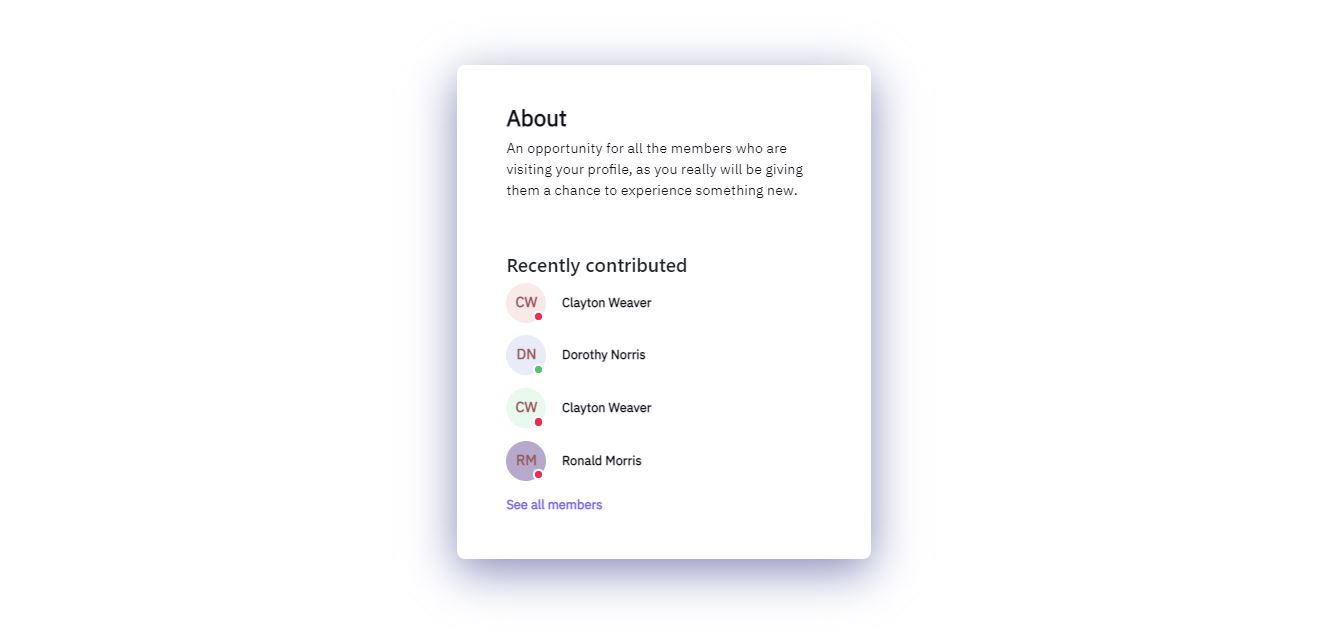
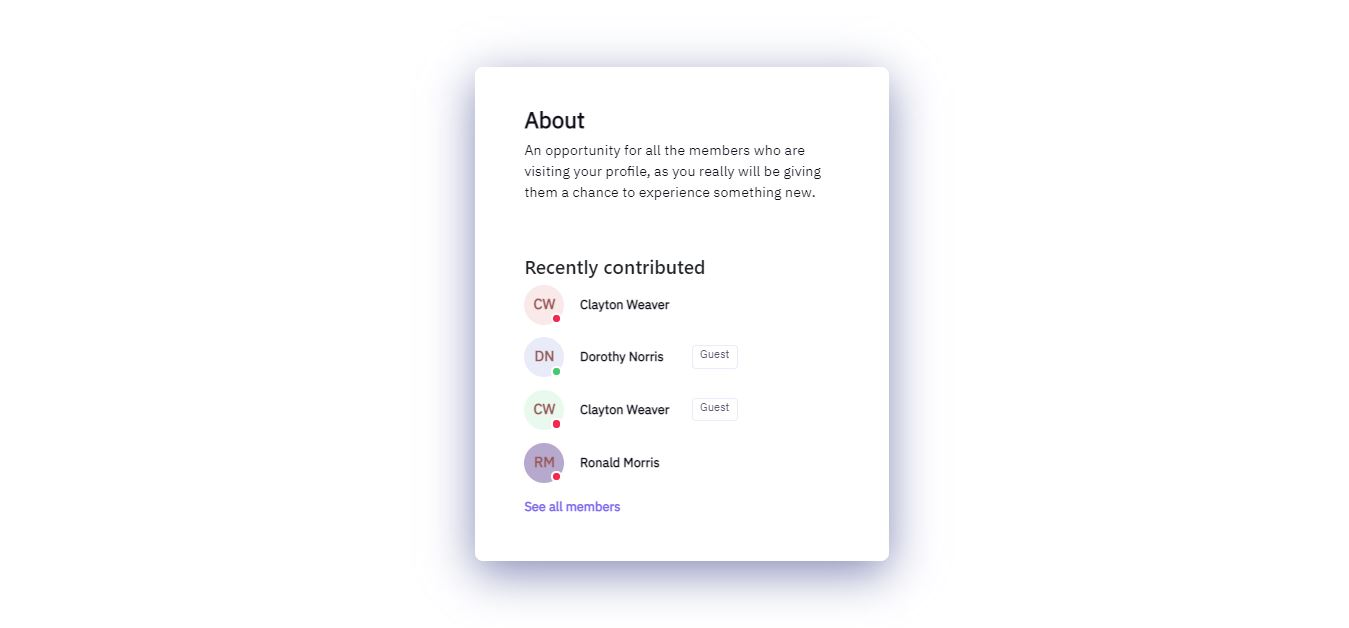
update info card.

diff --git a/info-card/index.html b/info-card/index.html
@@ -43,12 +43,15 @@
                             </div>
                         </div>
                     </div>
-                    <div class="col col-names">
+                    <div class="col-4 col-names">
                         <p class="mid-col-names">Dorothy Norris</p>
+                    </div>
+                    <div class="col">
+                        <label class="guest">Guest</label>
                     </div>
                 </div>
 
-                <div class="row">
+                <div class="row d-flex">
                     <div class="col-2">
                         <div class="third-circle">
                             <p class="first-circle-text">CW</p>
@@ -56,8 +59,11 @@
                             </div>
                         </div>
                     </div>
-                    <div class="col col-names">
+                    <div class="col-4 col-names">
                         <p class="mid-col-names">Clayton Weaver</p>
+                    </div>
+                    <div class="col">
+                        <label class="guest">Guest</label>
                     </div>
                 </div>
 

diff --git a/info-card/style.css b/info-card/style.css
@@ -89,3 +89,16 @@ body{
     font-weight: bold;
     font-family: 'IBM Plex Sans', sans-serif;
 }
+.guest{
+    width: 58px;
+    height: 29px;
+    border-radius: 5px;
+    background-color: #ffffff;
+    border: 1px solid #e9ebf9;
+    font-size: 14px;
+    color: #56596e;
+    font-weight: 400;
+    font-family: 'IBM Plex Sans', sans-serif;
+    text-align: center;
+    margin-top: 10px;
+}
